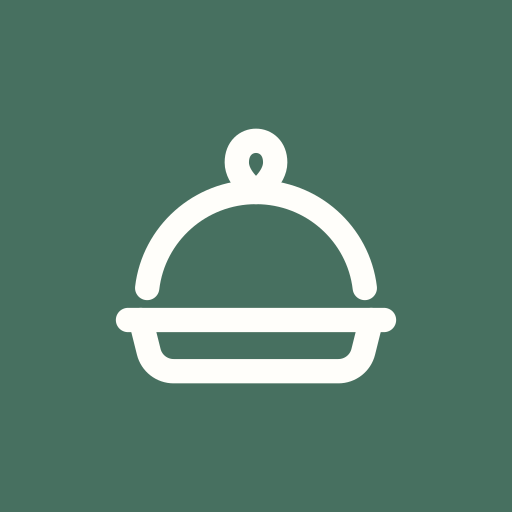
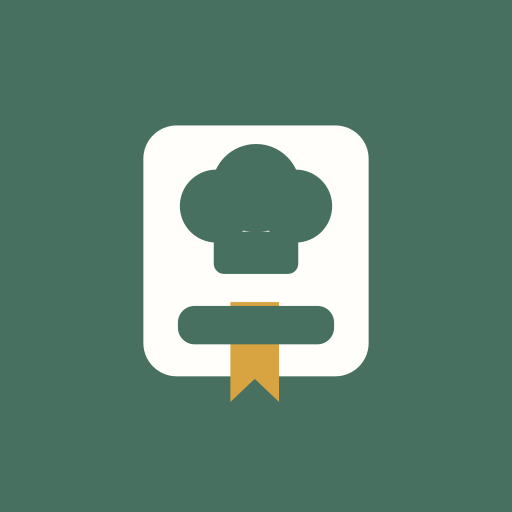
De app heet Klapper
Naam, merkteken en iconen doorgevoerd, vóór de bundle-id bij Apple
vastligt. Die is onomkeerbaar, dus dit moest eerst.

Wat er verandert: de titel van elk tabblad, het manifest, de naam op je
beginscherm, het inlogscherm, de pakketnaam en de app-iconen. Het
merkteken staat als los component in Merk.tsx — geen Icon, want dat
tekent lijnwerk uit de Hugeicons-set en dit is een silhouet met drie
kleuren. Dat verschil is opzet: de UI tekent met contouren, een merk
moet je van een afstand herkennen op een vol beginscherm.

Wat er níét verandert: de kop van het overzicht blijft "Recepten". De
app heet Klapper, de eerste tab toont je recepten; dat is niet hetzelfde
woord voor hetzelfde ding. De thuispagina had een eigen paginatitel om
te voorkomen dat het sjabloon er "Recepten — Recepten" van maakte; die
kan nu weg, want de app heet anders dan de pagina.

Ook ongemoeid: het zout waarmee het inlogkoekje ondertekend wordt. Dat
is een interne string die niemand ziet, en hem wijzigen logt iedereen
uit voor precies niets.

Eén nieuwe kleurwaarde: --lint (#d8a441), het lint van het merk. De
bestaande sterrenkleur haalt naast salie maar 1,4:1 en zou in de kaft
verdwijnen. Hij leeft alleen in het merkteken en komt de interface niet
in.

Iconen opnieuw getekend uit één bron; het script tekent nu het boek in
plaats van het bordje. Alle twaalf paginatitels nagemeten, 215 tests
groen, build schoon.

Claude-Session: https://claude.ai/code/session_011szFX9coLUxCKPozDh3nte

Changed region(s): [[0.2188, 0.2188, 0.7812, 0.7812]]

diff --git a/src/components/Merk.tsx b/src/components/Merk.tsx
@@ -1,0 +1,32 @@
+/**
+ * Het merkteken van Klapper: een kookboek met een koksmuts en een lint.
+ *
+ * Geen `Icon`, want dat component tekent lijnwerk uit de Hugeicons-set en dit
+ * is een silhouet met drie kleuren. Dat verschil is opzet: de rest van de app
+ * tekent met dunne contouren — de taal van gereedschap — maar een merk moet je
+ * van een afstand herkennen op een vol beginscherm.
+ *
+ * De kaft volgt `currentColor`. Wat op de kaft wit is — de muts en de
+ * paginabalk — krijgt de kleur van het vlak eronder via `--merk-tegen`, zodat
+ * het merk overal uit hetzelfde vlak lijkt gesneden.
+ */
+export function Merk({ size = 28 }: { size?: number }) {
+  return (
+    <svg
+      xmlns="http://www.w3.org/2000/svg"
+      width={size}
+      height={size}
+      viewBox="0 0 24 24"
+      aria-hidden
+      focusable="false"
+    >
+      <rect x="3.2" y="1.8" width="17.6" height="19.6" rx="2.6" fill="currentColor" />
+      <path d="M10 15.6H13.8V23.4L11.9 21.6 10 23.4Z" fill="var(--lint)" />
+      <rect x="5.9" y="15.9" width="12.2" height="3" rx="1.3" fill="var(--merk-tegen)" />
+      <circle cx="8.9" cy="8.1" r="2.85" fill="var(--merk-tegen)" />
+      <circle cx="15.1" cy="8.1" r="2.85" fill="var(--merk-tegen)" />
+      <circle cx="12" cy="6.7" r="3.45" fill="var(--merk-tegen)" />
+      <rect x="8.7" y="10.1" width="6.6" height="3.3" rx="0.8" fill="var(--merk-tegen)" />
+    </svg>
+  );
+}

diff --git a/src/app/layout.tsx b/src/app/layout.tsx
@@ -4,11 +4,11 @@ import "./globals.css";
 
 export const metadata: Metadata = {
   // Elke pagina vult alleen zijn eigen stuk in. Zonder dit heette elk tabblad
-  // "Recepten" — in je geschiedenis, in de tabbladenlijst en als eerste wat een
+  // "Klapper" — in je geschiedenis, in de tabbladenlijst en als eerste wat een
   // schermlezer voorleest, en dan weet je van geen van de acht welke het is.
-  title: { default: "Recepten", template: "%s — Recepten" },
+  title: { default: "Klapper", template: "%s — Klapper" },
   description: "Recepten van Instagram, AH en websites, netjes opgeslagen.",
-  applicationName: "Recepten",
+  applicationName: "Klapper",
   icons: {
     icon: [
       { url: "/icoon/icoon-192.png", sizes: "192x192", type: "image/png" },
@@ -19,7 +19,7 @@ export const metadata: Metadata = {
   appleWebApp: {
     // Zonder dit opent "Zet op beginscherm" alsnog een Safari-venster met balk.
     capable: true,
-    title: "Recepten",
+    title: "Klapper",
     // Doorzichtige statusbalk: de klok staat over onze eigen achtergrond, en
     // de veilige zones vangen we in CSS op.
     statusBarStyle: "default",

diff --git a/src/app/globals.css b/src/app/globals.css
@@ -75,6 +75,11 @@
   --warn: #87672a;
   /* Sterren. Amber uit dezelfde warme familie als --sand, geen markeerstift. */
   --ster: #a97b1c;
+  /* Het lint van het merk. Lichter dan --ster, want die haalt naast salie
+     maar 1,4:1 en verdwijnt dan in de kaft. Leeft alleen in het merkteken. */
+  --lint: #d8a441;
+  /* Waar het merk uit gesneden lijkt: standaard het papier eronder. */
+  --merk-tegen: var(--surface);
 
   /* Een streepje dat over een gekleurd vlak loopt (de balk van de timer).
      Niet --line: die is voor papier, niet voor pastel. */
@@ -2138,6 +2143,9 @@ button.round.primary {
   border-radius: 50%;
   background: var(--accent-soft);
   color: var(--accent);
+  /* Het merk lijkt uit het vlak eronder gesneden, en dat is hier het
+     pastelrondje en niet het papier. */
+  --merk-tegen: var(--accent-soft);
 }
 
 .gate-card button[type="submit"] {

diff --git a/src/app/login/page.tsx b/src/app/login/page.tsx
@@ -1,7 +1,6 @@
 import type { Metadata } from "next";
 import { Avatar } from "@/components/Avatar";
-import { Icon } from "@/components/Icon";
-import { icons } from "@/lib/icons";
+import { Merk } from "@/components/Merk";
 import { MIN_PASSWORD_LENGTH, configuredPassword } from "@/lib/session";
 import { people } from "@/lib/settings";
 import { bekendeNaam } from "@/lib/people";
@@ -43,9 +42,9 @@ export default async function LoginPage({
     <main className="gate">
       <div className="gate-card">
         <span className="gate-mark" aria-hidden>
-          <Icon icon={icons.plate} size={30} strokeWidth={1.2} />
+          <Merk size={30} />
         </span>
-        <h1>Recepten</h1>
+        <h1>Klapper</h1>
 
         {configured ? (
           <>

diff --git a/src/app/manifest.ts b/src/app/manifest.ts
@@ -13,8 +13,8 @@ import type { MetadataRoute } from "next";
  */
 export default function manifest(): MetadataRoute.Manifest {
   return {
-    name: "Recepten",
-    short_name: "Recepten",
+    name: "Klapper",
+    short_name: "Klapper",
     description: "Recepten van Instagram, AH en websites, netjes opgeslagen.",
     lang: "nl",
     // Volledig scherm zonder Safari-balk. Precies wat de schil straks ook doet.

diff --git a/src/app/(app)/(overzicht)/page.tsx b/src/app/(app)/(overzicht)/page.tsx
@@ -23,9 +23,8 @@ import {
 
 export const dynamic = "force-dynamic";
 
-// `absolute` zodat het sjabloon uit de hoofdopmaak er niet nóg eens "Recepten"
-// achter plakt.
-export const metadata = { title: { absolute: "Recepten" } };
+// Geen eigen titel: de thuispagina draagt gewoon de naam van de app, en die
+// staat als standaard in de hoofdopmaak.
 
 export default async function HomePage({
   searchParams,

diff --git a/README.md b/README.md
@@ -1,8 +1,13 @@
-# ReceptenTool
+# Klapper
 
 Recepten van Instagram, de AH-app en willekeurige websites via de iOS-share
 sheet opslaan, en ze automatisch laten uitschrijven tot één helder,
 kookbaar recept.
+
+Vernoemd naar de receptenklapper die vroeger in elke keukenla lag: geen
+archief van alles wat er bestaat, maar een selectie van wat jullie echt
+maken. En een klapper is ook een voltreffer — dat is precies wat de kooklog
+met sterren bijhoudt.
 
 ## Hoe het werkt
 
@@ -748,7 +753,7 @@ npm run db:backup
 Zet hem in de cron — één keer per nacht is genoeg:
 
 ```
-15 3 * * * cd /pad/naar/receptentool && /usr/bin/npm run db:backup >> backups/log.txt 2>&1
+15 3 * * * cd /pad/naar/klapper && /usr/bin/npm run db:backup >> backups/log.txt 2>&1
 ```
 
 Elke run maakt één map `backups/2026-08-11_031500/` met daarin `recepten.db`,
